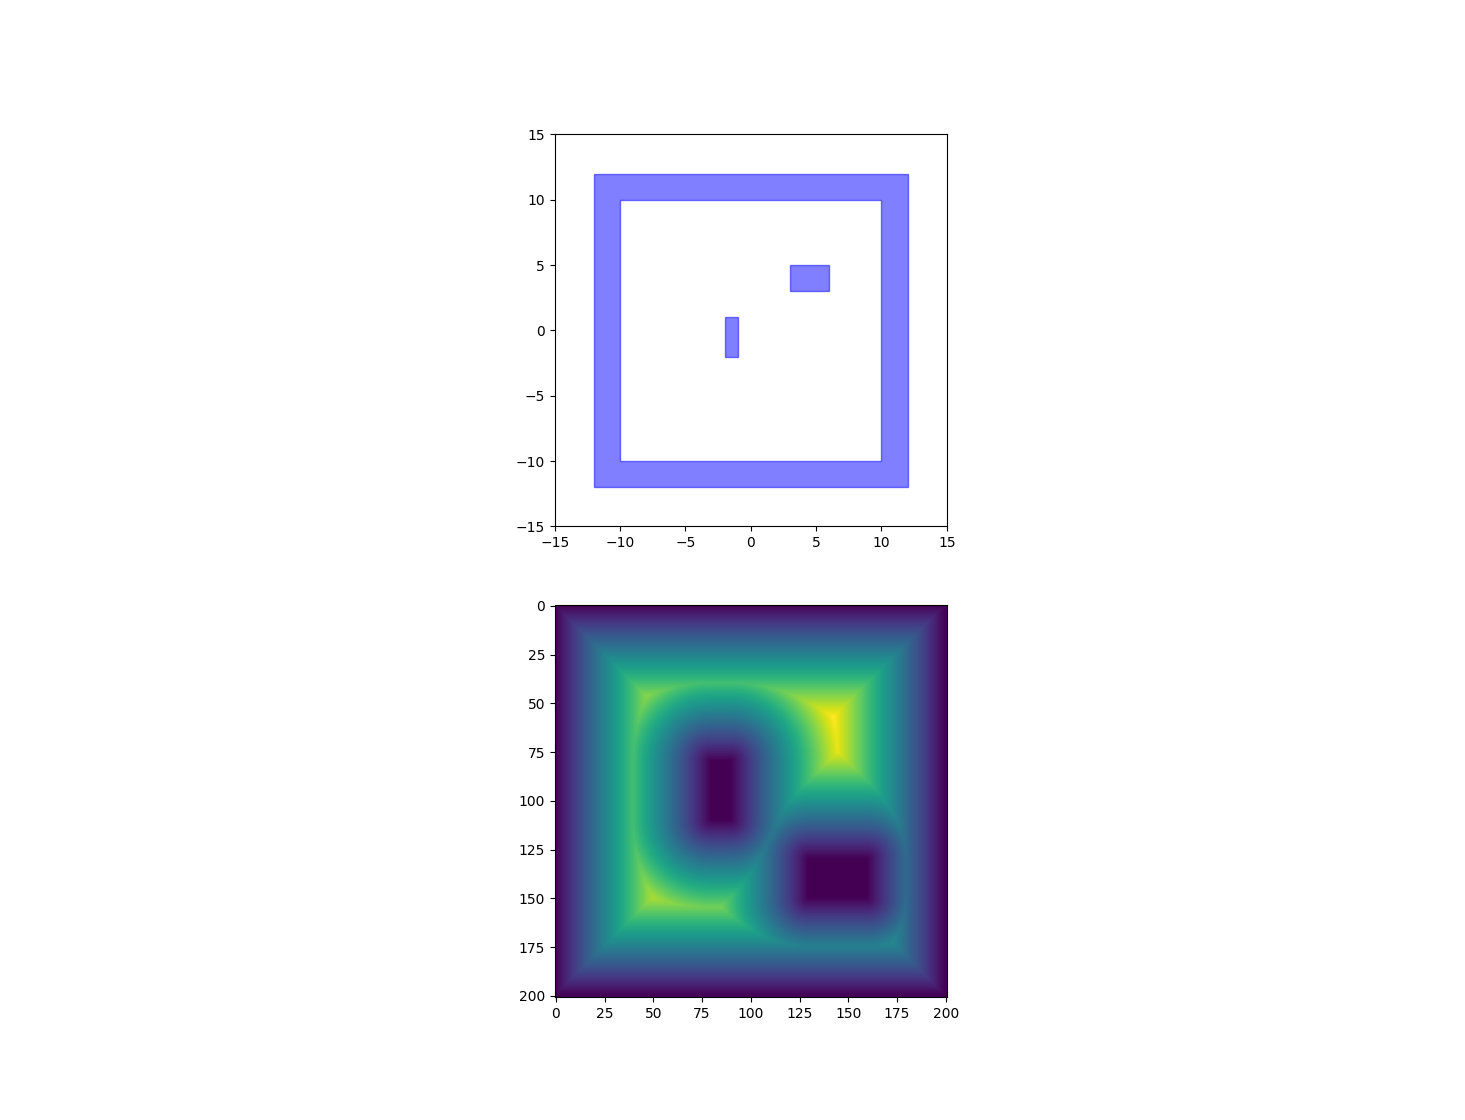
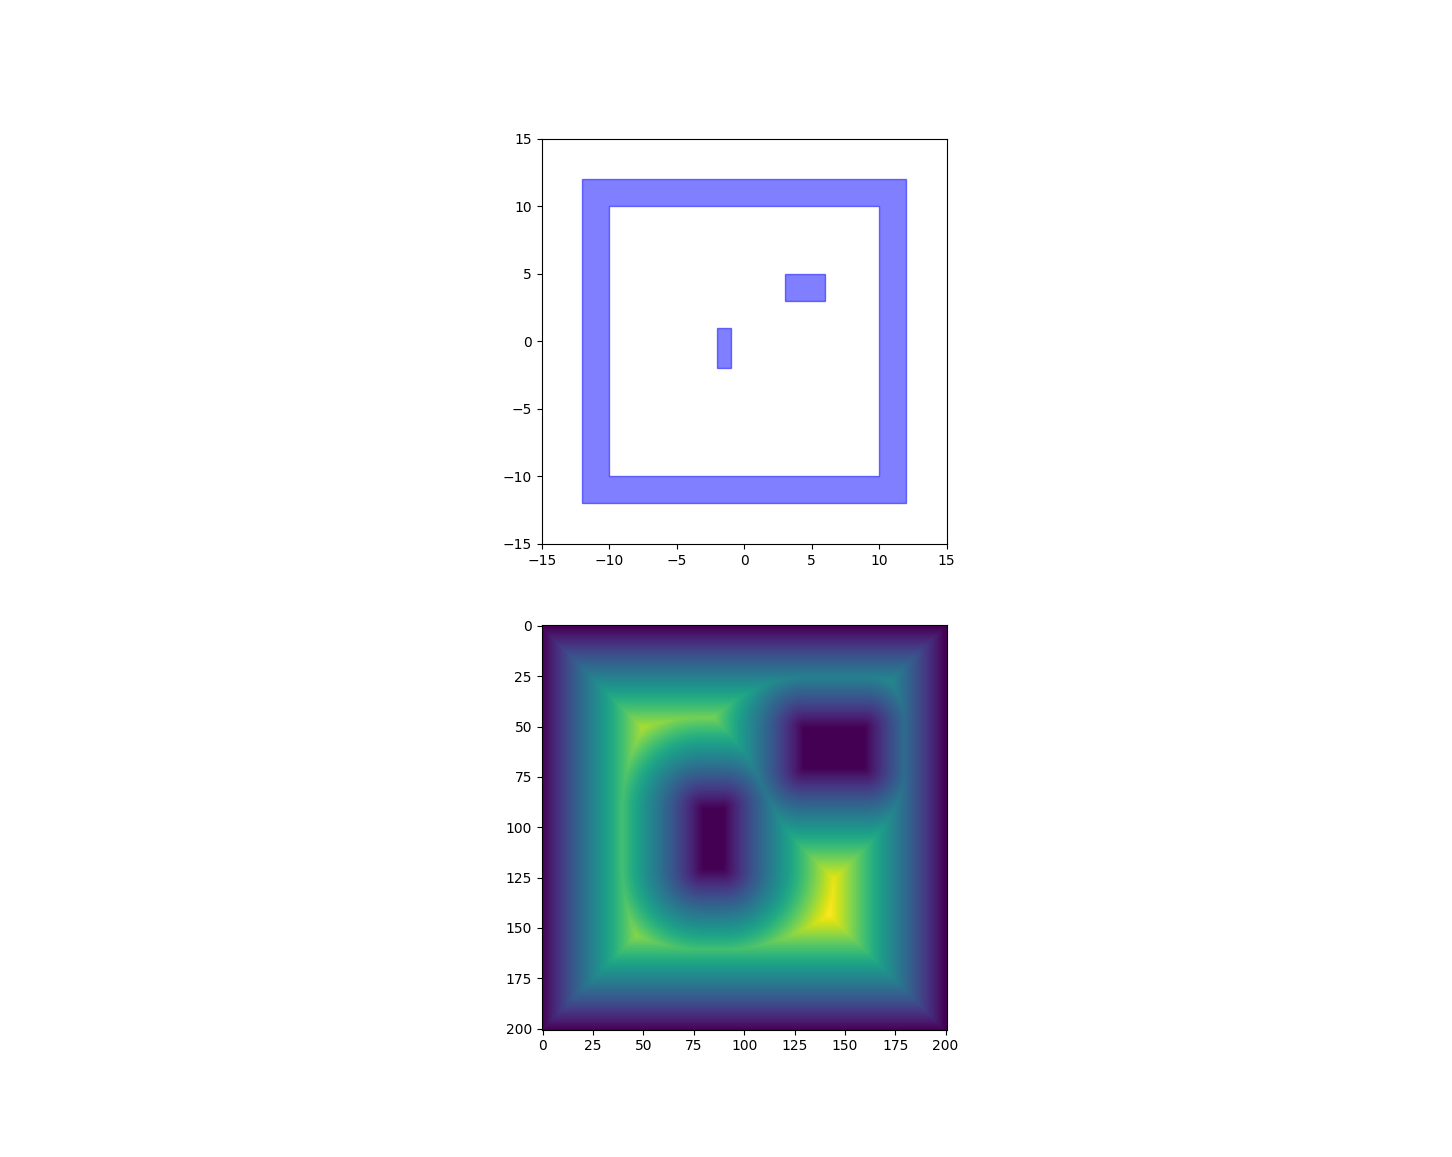
flipped

diff --git a/safety_diagram.py b/safety_diagram.py
@@ -54,7 +54,7 @@ def main():
     plt.gca().set_aspect('equal')
 
     plt.sca(axes[1])
-    plt.imshow(diag)
+    plt.imshow(np.flip(diag, axis=0))
     plt.gca().set_aspect('equal')
 
     plt.show()
